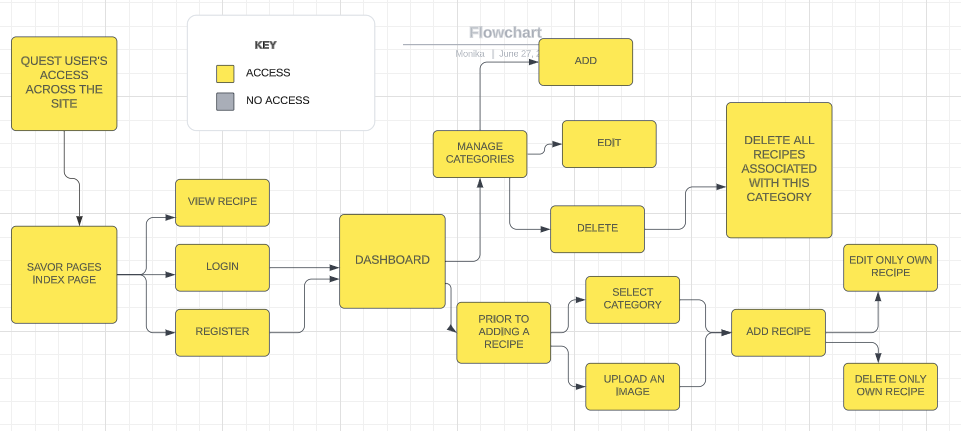
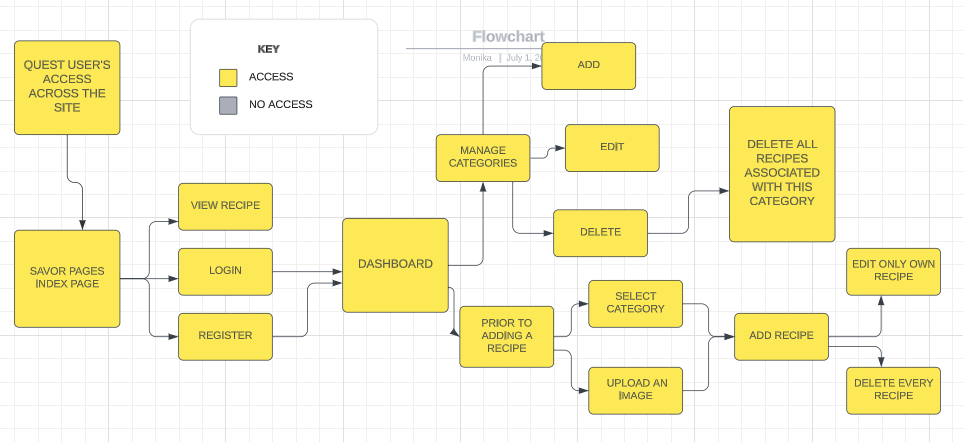
Adjust docs for an admin deleting recipe function

diff --git a/README.md b/README.md
@@ -43,9 +43,10 @@ As a lfood lover, but not necessarily cooking chef, the choice of this project w
 * Be warned of the consequences of deleting a recipe.
 * Have my own member user dashboard (read functionality).
 ### Admin Goals
-* Have the ability to maintain the recipes, in particular the categories
+* Have the ability to maintain the categories
 * Add, edit and delete my own recipes
-* Add, edit, and delete any recipe by category
+* Delete any recipe added by other users
+* Delete a category with all recipes associated
 ## Scope
 ### Feature Ideas Planning
 When planning the App features and scope, I drew up an Importance Viability analysis of these features, please see below:
@@ -61,14 +62,16 @@ When planning the App features and scope, I drew up an Importance Viability anal
 | 7 | Send message and/ or feedback to Admin | 5 | 2 |
 | 8 | Receive Notifications on users activities | 2 | 2 |
 | 9 | Search for Recipes | 5 | 5 |
-| 10 | Search Recipes by Ingredients | 3 | 1 |
-| 11 | Search Recipes by Category | 5 | 2 |
-| 12 | Share Recipes on Social Media | 3 | 3 |
-| 13 | Display Suggested Recipes | 3 | 2 |
-| 14 | Access to Custom User Dashboard (Read Functionality) | 4 | 5 |
-| 15 | User Action Validation | 5 | 5 |
+| 10 | Vote for the favourite recipe | 3 | 4 |
+| 11 | Search Recipes by Ingredients | 3 | 1 |
+| 12 | Search Recipes by Category | 5 | 2 |
+| 13 | Share Recipes on Social Media | 3 | 3 |
+| 14 | Display Suggested Recipes | 3 | 2 |
+| 15 | Access to Custom User Dashboard (Read Functionality) | 4 | 5 |
+| 16 | User Action Validation | 5 | 5 |
 
-Based on the results of the Feature Ideas Planning, I have decided to attempt to implement features numbers 1, 2, 3, 5, 14 and 15 for this production release and postpone the remaining features due to time limitations.
+
+Based on the results of the Feature Ideas Planning, I have decided to attempt to implement features numbers 1, 2, 3, 5, 15 and 16 for this production release and postpone the remaining features due to time limitations.
 
 ### Functionality Requirements
 * Clean and themed presentation of recipe details.
@@ -193,6 +196,8 @@ A Navbar displays on every page, contains:
 * Log out the user and return to login page
 
 ## For Admin user only
+### Manage recipes
+* Delete every recipe
 ### Manage categories
 * Add a category
 * Edit a category 
@@ -210,7 +215,7 @@ This shows what CRUD functionality is available from each page
 | Page | Create | Read | Update | Delete |
 | --- | --- | --- | --- | --- |
 | Home |  | read intro about the app |  |  |
-| Recipes |  | look through recipes | edit and update recipe (requires log in & only if owner of the recipe) | delete recipe (requires log in) & only if owner of the recipe |
+| Recipes |  | look through recipes | edit and update recipe (requires log in & only if owner of the recipe) | delete recipe (requires log in) & only if owner of the recipe or admin|
 | Add recipe | choose a category, create a new recipe, upload an image |  |  |  |
 | Register | user profile |  |  |  |
 | Login |  | username for password check |   |  |  |

diff --git a/TESTING.md b/TESTING.md
@@ -115,3 +115,4 @@ I ran the site through the [Wave Web Accessibility Evaluation Tool](https://wave
 | 2. Add the category | On category page, by 'ADD CATEGORY' button, admin can add a new category |![Add category](docs/addcat.png) |
 | 3. Edit a category| Admin can edit any category |![Edit category](docs/editcategory.png) |
 | 4. Delete a category | Admin can delete any category including all recipes associated with this category. Pop up window will display the warning message  |![Delete category](docs/deletecat.png) |
+| 5. Delete every recipe | Admin can delete any recipe created by other users  |![Delete recipe](docs/delete.png) |
